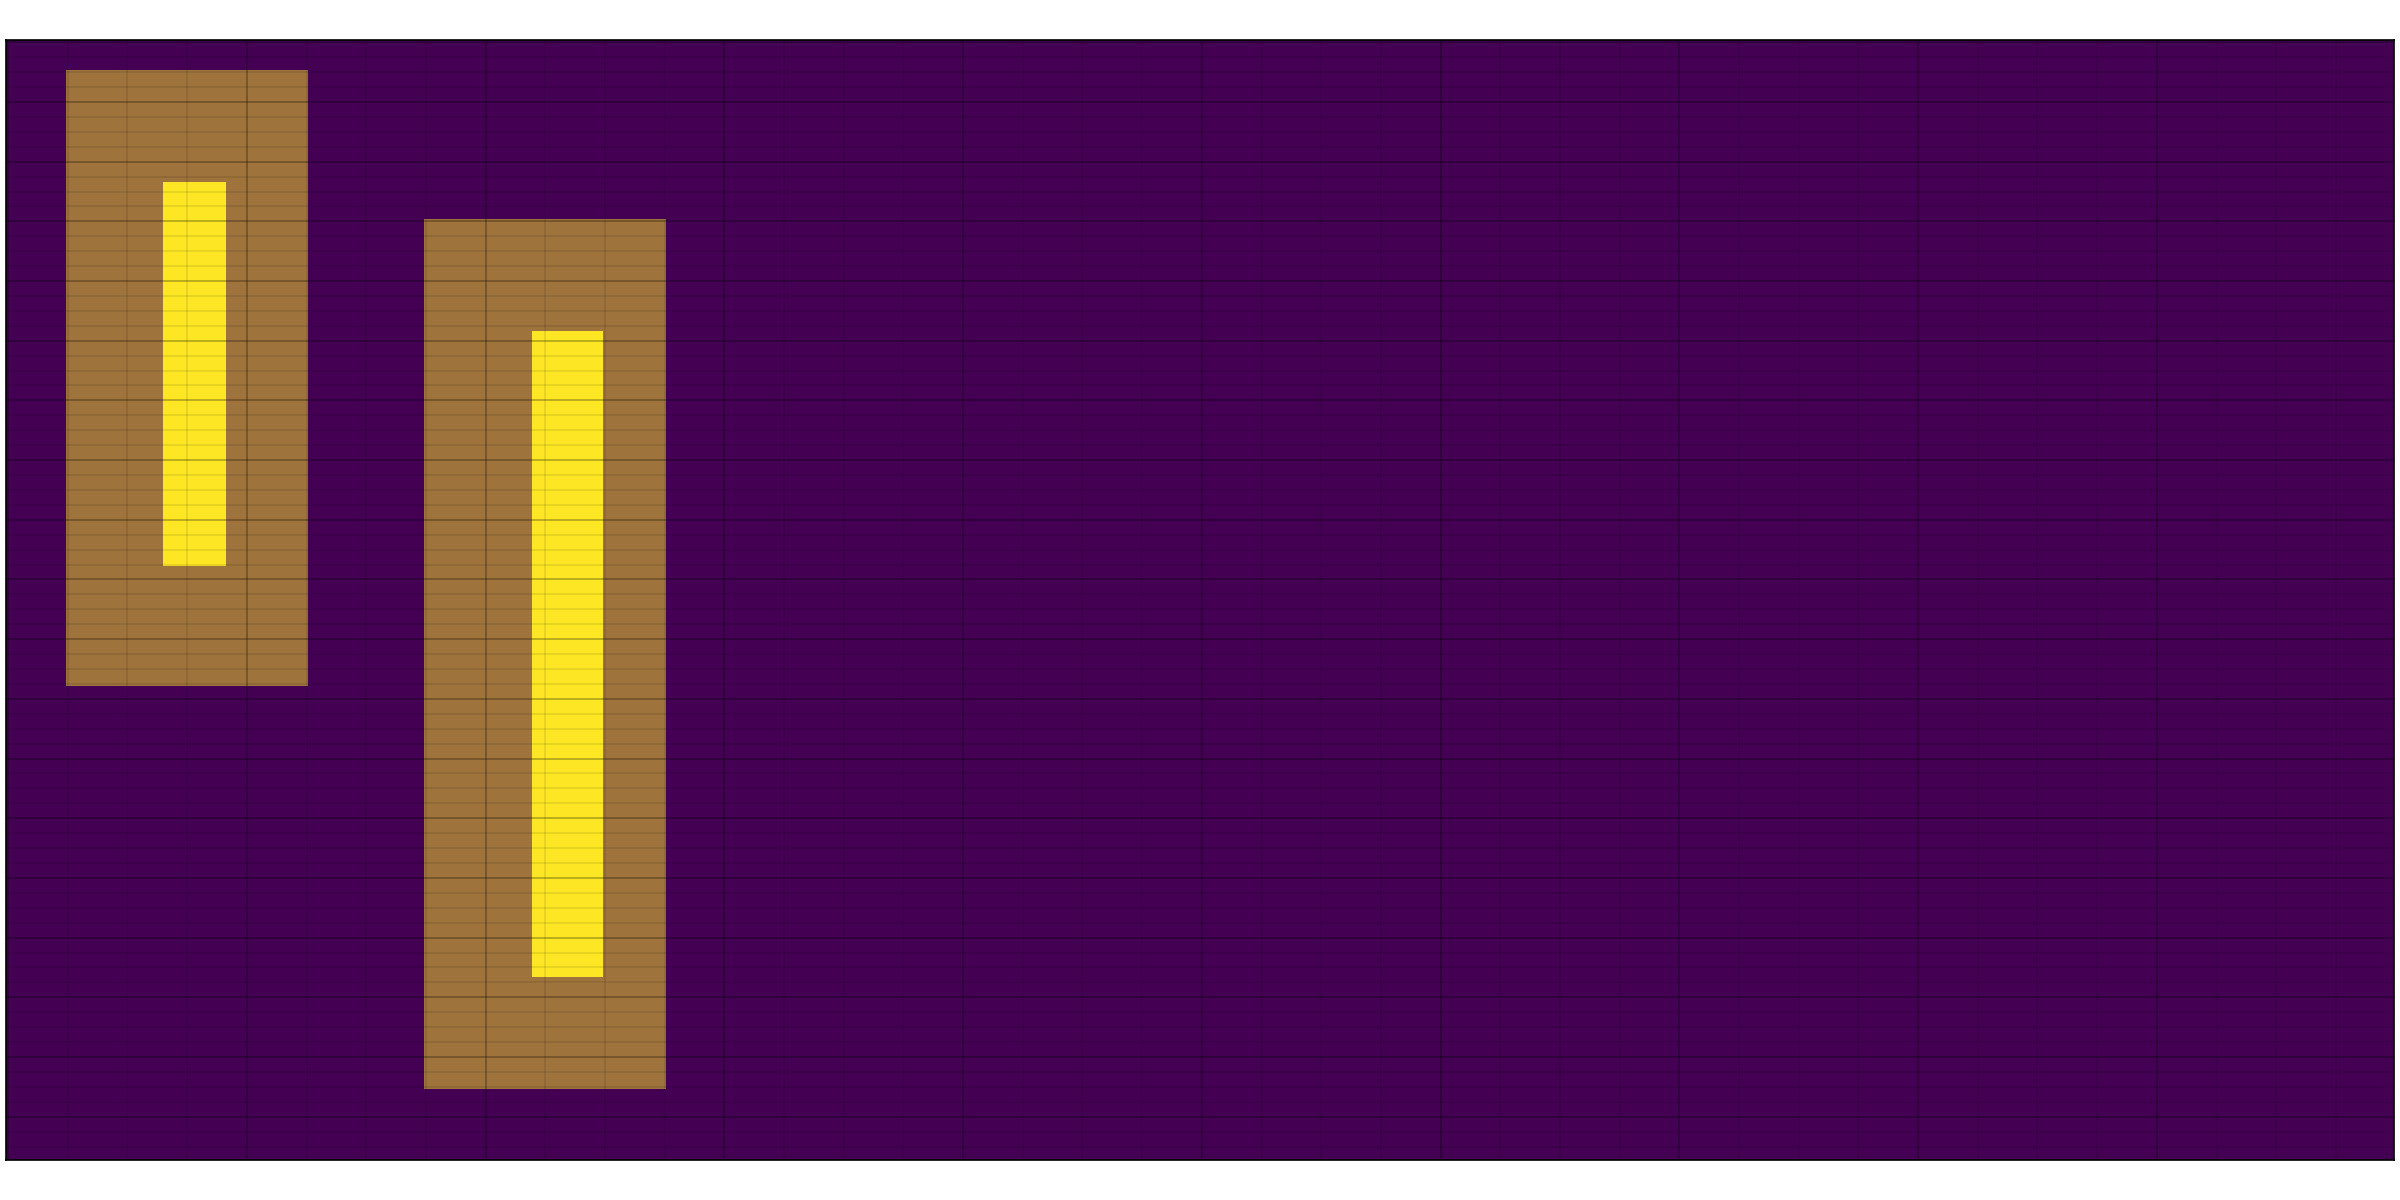
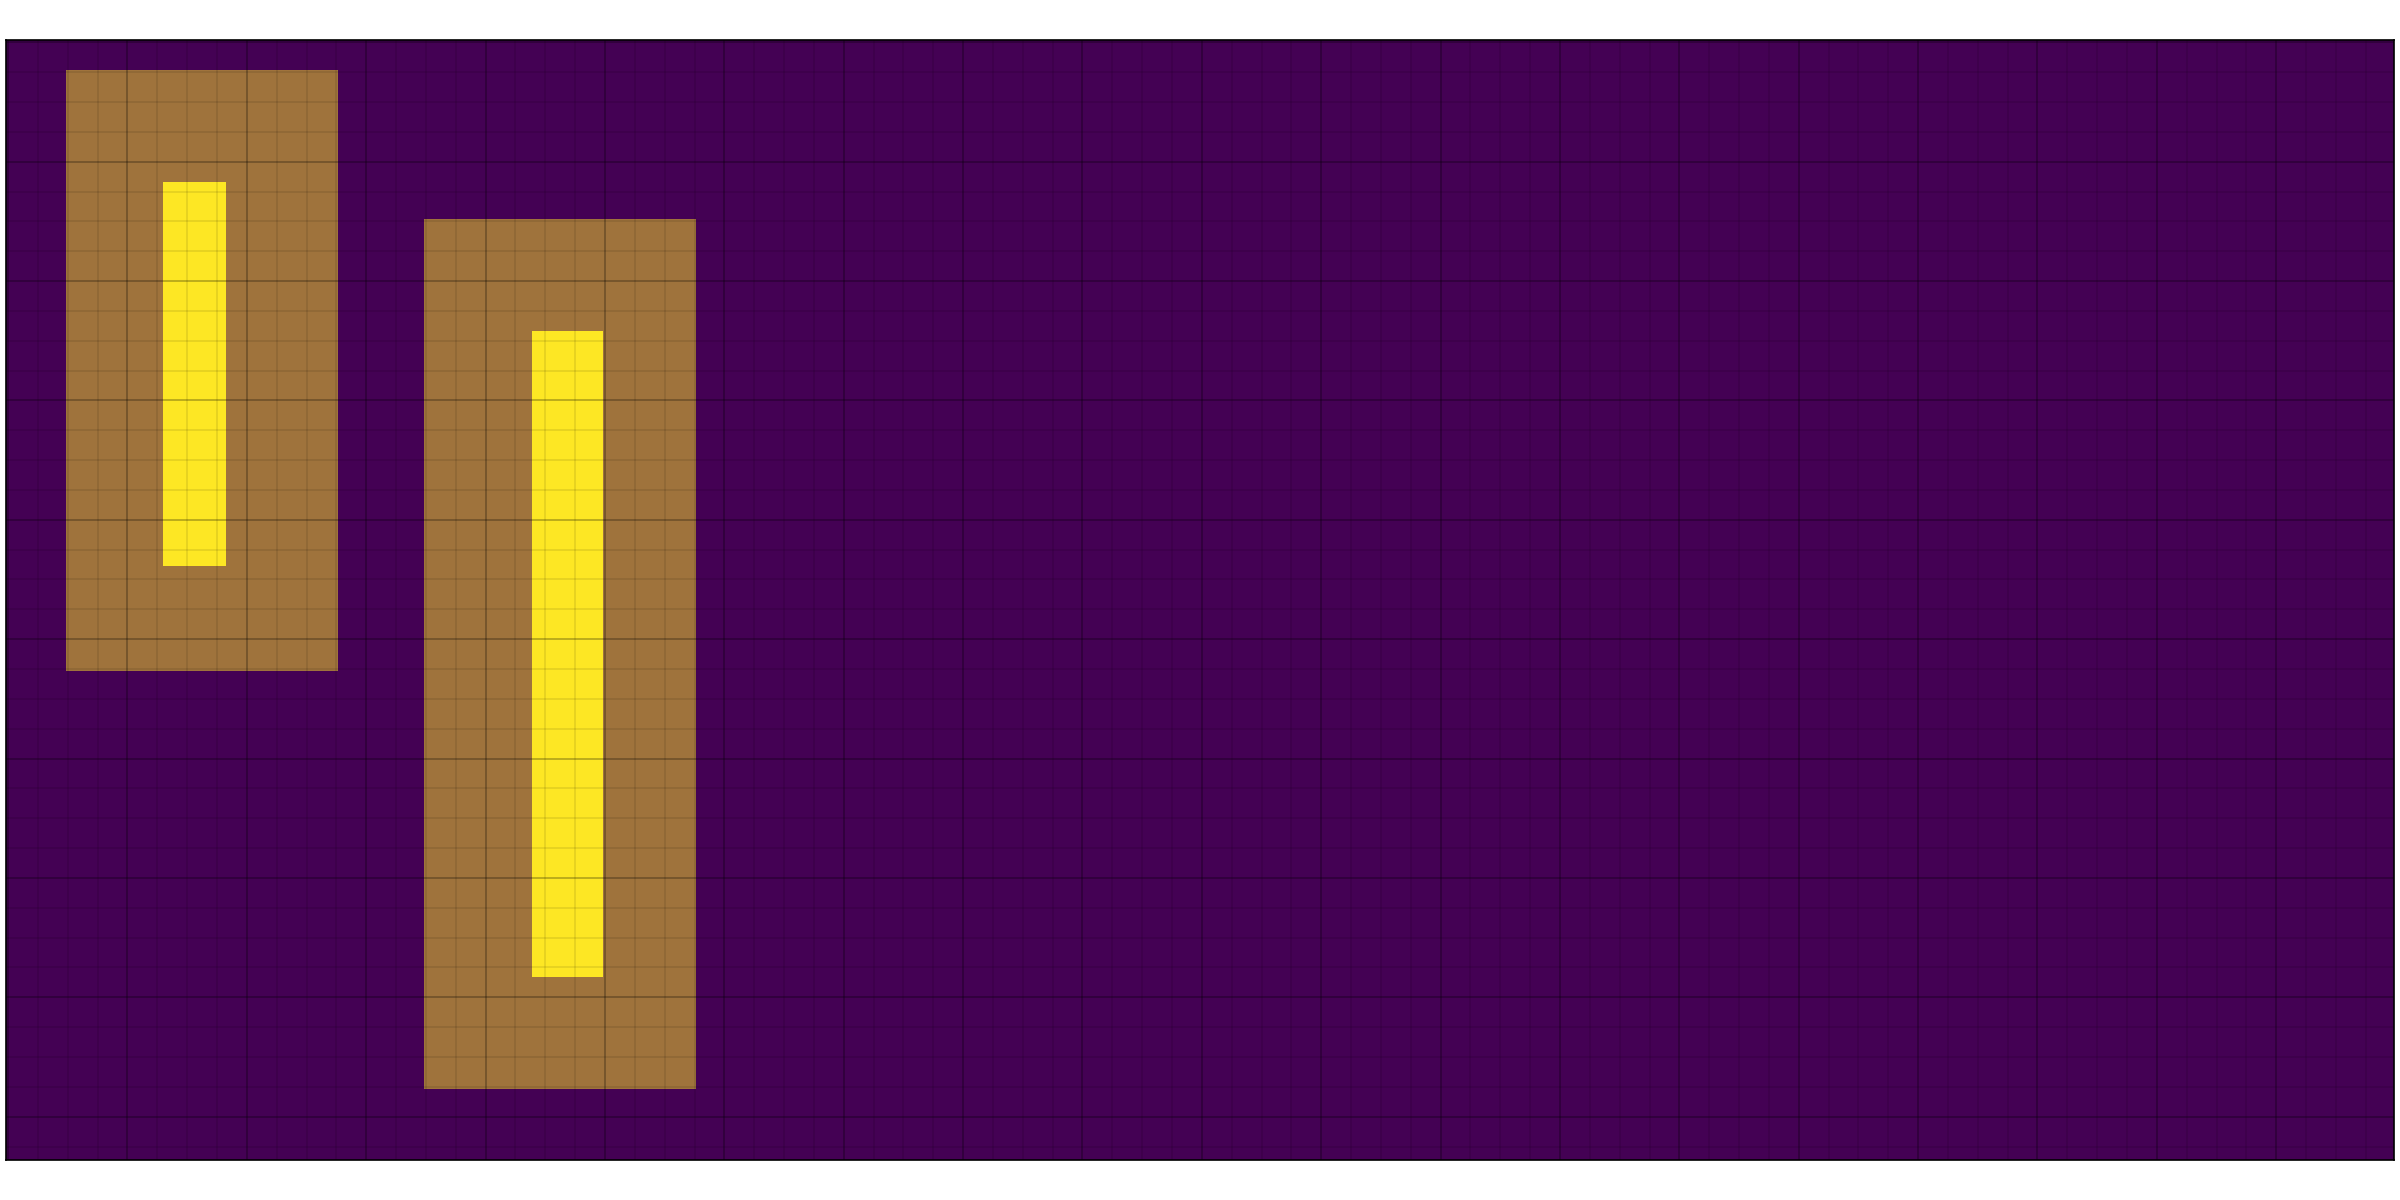
Affichage des carachteristiques.

Changed region(s): [[0.25, 0.185, 0.3125, 0.925], [0.125, 0.0617, 0.1562, 0.555], [0.0312, 0.555, 0.125, 0.5858]]

diff --git a/ImageSynthetique.py b/ImageSynthetique.py
@@ -12,6 +12,7 @@ params = {'legend.fontsize': 'x-large',
 plt.rcParams.update(params)
 import time
 import cv2
+import matplotlib.patches as patches
 
 def timing(part='', start=None):
     if start!=None:
@@ -71,7 +72,7 @@ class Image:
 
         self.image = cv2.bitwise_and(self.image, self.image, mask = mask_2)
         self.image = cv2.add(self.image, image_resize)
-        self.objects.append((rect_top,rect_bottom))
+        self.objects.append({'spacing': spacing//times, 'length': length//times, 'lines': lines, 'coords': (rect_top,rect_bottom)})
         pass
 
     def plot_masked(self):
@@ -80,10 +81,27 @@ class Image:
         pass
 
     def plot_label(self):
-        temp = self.image.copy()
+        fig = plt.figure()
+        plt.imshow(self.image, vmin=0, vmax=255)
         for obj in self.objects:
-            temp = cv2.rectangle(temp, obj[0], obj[1], 255, 1)
-        fig = plt.imshow(temp, vmin=0, vmax=255)
+            coords = obj['coords']
+            pt = (coords[0][0],coords[0][1])
+            w = coords[1][0] - coords[0][0]
+            h = coords[1][1] - coords[0][1]
+            plt.gca().add_patch(patches.Rectangle(pt,w,h,linewidth=1,edgecolor='r',facecolor='none'))
+            text = ''
+            for attribute in list(obj.keys())[:-1]:
+                if attribute != list(obj.keys())[-2]:
+                    text += attribute + ': '+str(obj[attribute])+'\n'
+                else:
+                    text += attribute + ': '+str(obj[attribute])
+            pad = 5
+            plt.gca().text(pt[0]+w+1+pad/2, pt[1]+pad/2, text,
+                            color='white',
+                            horizontalalignment='left',
+                            verticalalignment='top',
+                            bbox=dict(facecolor='black', alpha=0.5, pad=pad, linewidth=0))
+
         return fig
 
     def sliding_window(self, window_size, pad_h, pad_v):

diff --git a/Dataset.py b/Dataset.py
@@ -91,3 +91,38 @@ def define_model(img_shape, fine_tune_layers=0, dropout=False):
     loss = keras.losses.MeanSquaredError()
     model.compile(optimizer=opt, loss=loss, metrics=['accuracy'])
     return model
+
+def segmentation_model(img_shape, fine_tune_layers=0, dropout=False):
+    base_model = keras.applications.ResNet50(
+      weights="imagenet",  # Load weights pre-trained on ImageNet.
+      input_shape=(32,32,3),
+      include_top=False,
+    )  # Do not include the ImageNet classifier at the top.
+
+    if fine_tune_layers >= 1:
+        # Freeze all the layers except for the last `fine_tune_layers`
+        for layer in base_model.layers[:-fine_tune_layers]:
+            layer.trainable =  False
+    else:
+        base_model.trainable = False
+
+    # Create new model on top
+    inputs = keras.Input(shape=img_shape)
+    x = inputs
+    if img_shape[0] != 32:
+        x = keras.layers.experimental.preprocessing.Resizing(32,32)(x)
+    # Convolve to adapt to 3-channel input
+    x = keras.layers.Conv2D(3,(3,3), padding='same')(x)
+    # Pre-processing
+    x = keras.applications.resnet50.preprocess_input(x)
+    # Base pre-trained model
+    x = base_model(x, training=False)
+    outputs = AveragePooling2D(
+        (7, 7), name='avg_pool')(x)
+    #outputs = keras.layers.Dense(1)(x)
+    model = keras.Model(inputs, outputs)
+
+    opt = keras.optimizers.SGD(learning_rate=0.001, momentum=0.9)
+    loss = keras.losses.MeanSquaredError()
+    model.compile(optimizer=opt, loss=loss, metrics=['accuracy'])
+    return model

diff --git a/main.py b/main.py
@@ -31,13 +31,13 @@ def main():
 
     # Sliding window
     window_size = 32
-    pad_h = 16
-    pad_v = 4
+    pad_h = 8
+    pad_v = 8
 
     crops, labels, number, segmentation_crops = train.sliding_window(window_size, pad_h, pad_v)
     var_time = timing('sliding_window', var_time)
 
-    indexes = (20//pad_v,50//pad_h-1)
+    indexes = (40//pad_v,50//pad_h-1)
     plt.subplot(121)
     plt.imshow(crops[indexes])
     plt.subplot(122)
